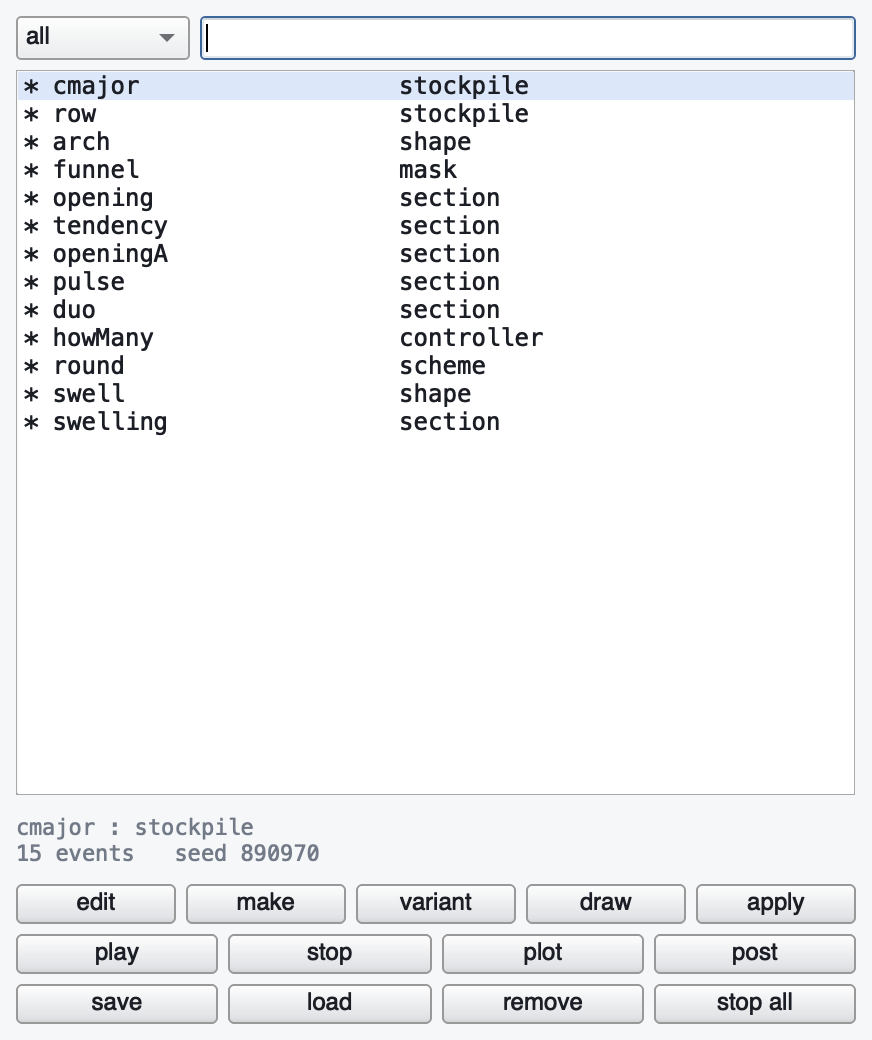
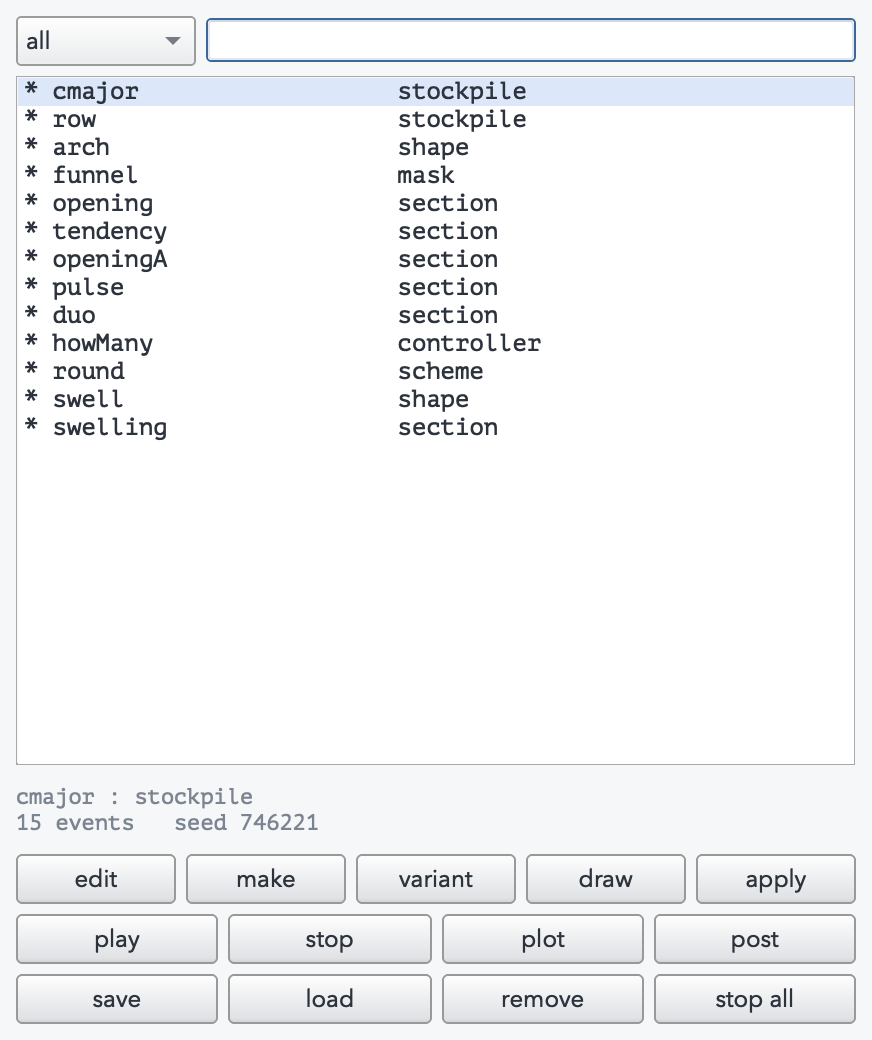
Lighter type: Avenir Next and PT Mono with lazy fallback, softer ink

Changed region(s): [[0.0, 0.0, 0.9908, 0.4308], [0.0, 0.7385, 0.9908, 0.9846]]

diff --git a/ARCHITECTURE.md b/ARCHITECTURE.md
@@ -337,7 +337,14 @@ All of the following exist except `PTIndex`. One class, `PTCurveEditor`, covers
 both shape and mask drawing, because a shape is a mask with one line.
 
 The palette is light: a cool near-white ground, one clean blue accent, grid lines
-as black at low alpha so they sit under content rather than on it. Two things had
+as black at low alpha so they sit under content rather than on it. The type is
+Avenir Next with PT Mono for anything code-shaped, resolved lazily from a
+preference list so the look degrades to the nearest available family rather than
+to whatever Qt happens to pick. A lighter *weight* is not on offer: this Qt build
+resolves `Helvetica Neue Light`, `HelveticaNeue-Light` and `Avenir-Light` all to
+the same fallback, which was established by measuring rendered ink coverage rather
+than by looking. So the lighter reading comes from a lighter family and from ink
+set a shade off black. Two things had
 to change from the dark version rather than simply inverting. Velocity in the
 piano roll is shown as colour depth, blending between a pale and a deep blue at
 full opacity, because an alpha-blended bar washes out against white where against
